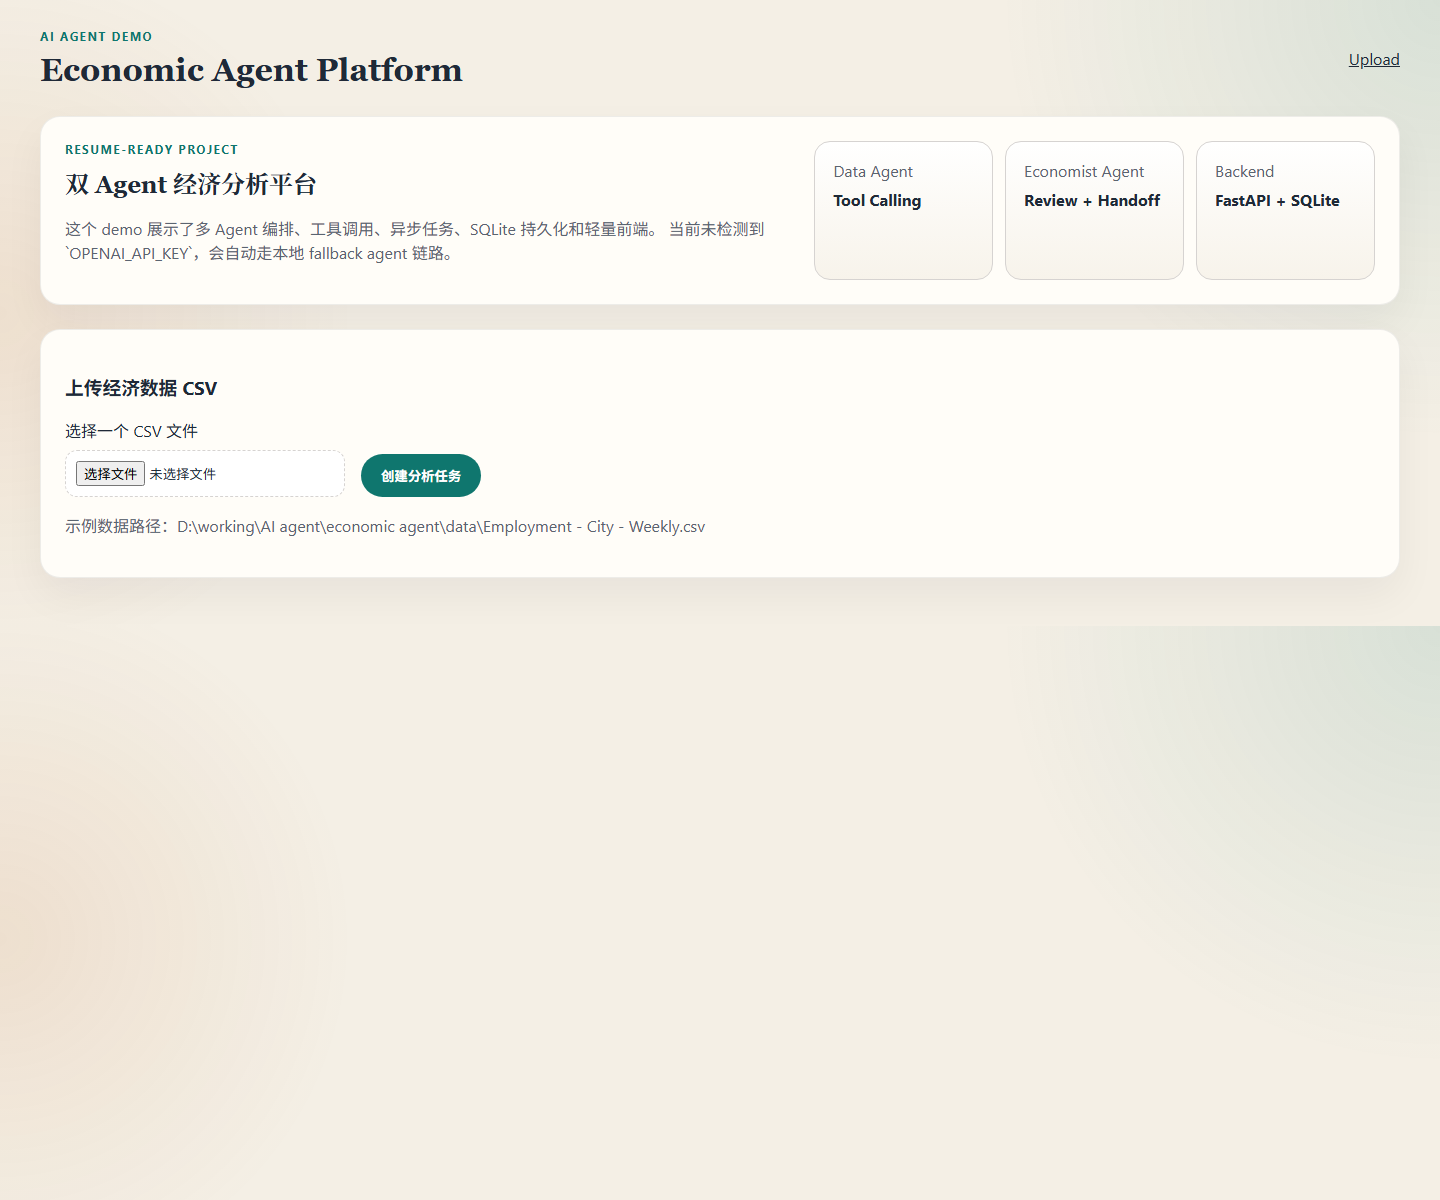
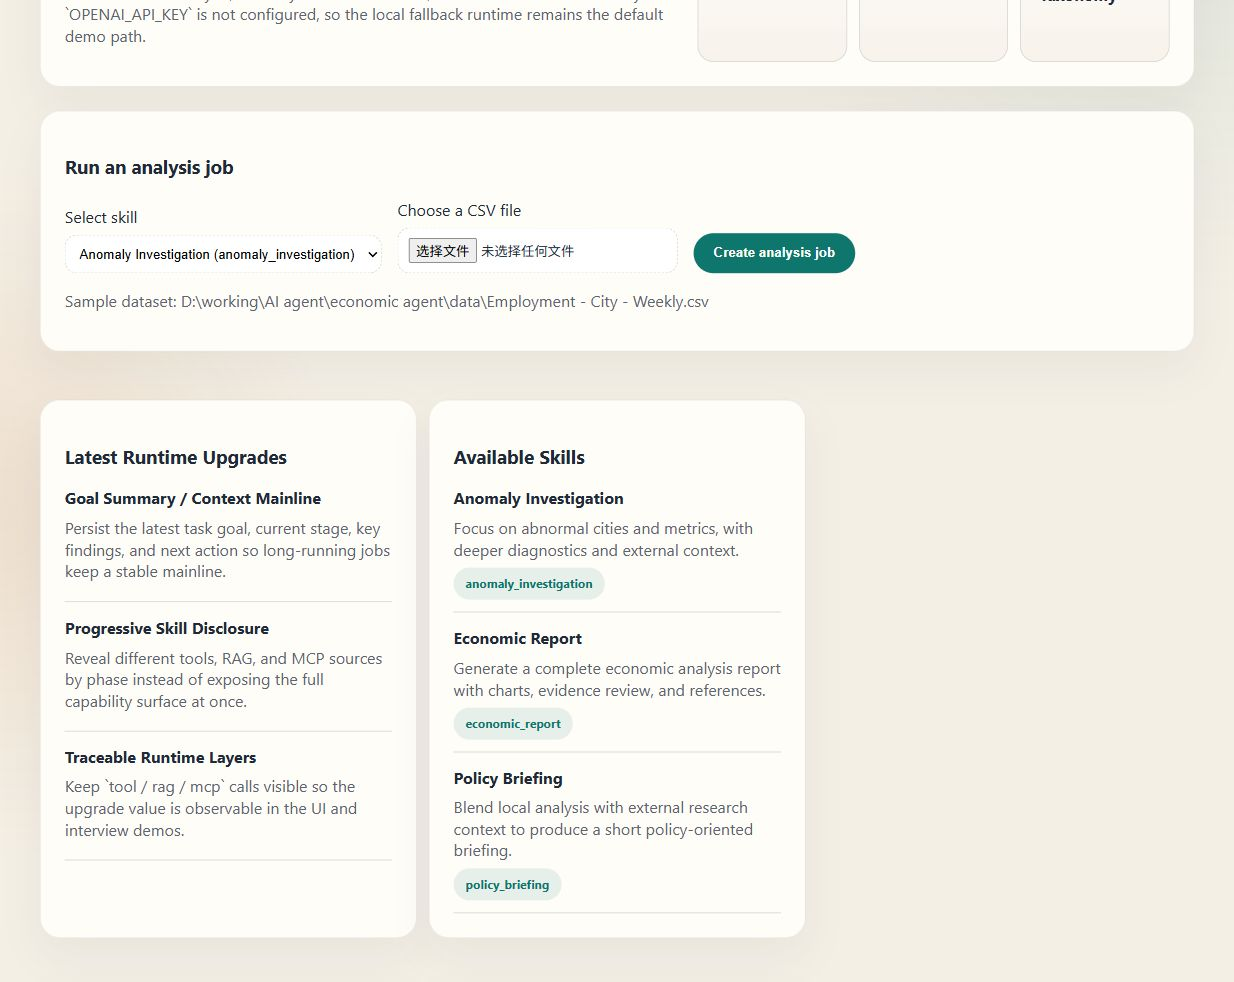
Show upgrade value in demo screenshots

diff --git a/app/templates/partials/job_panel.html b/app/templates/partials/job_panel.html
@@ -38,6 +38,57 @@
   </ul>
 </section>
 
+<section class="trace-card disclosure-card">
+  <h3>Current Skill Disclosure</h3>
+  <p><strong>Stage:</strong> {{ stage_disclosure.stage }}</p>
+  <p><strong>Stage goal:</strong> {{ stage_disclosure.stage_goal }}</p>
+  <p><strong>Why this disclosure:</strong> {{ stage_disclosure.disclosure_rationale or "-" }}</p>
+  <div class="status-row">
+    <span class="chip">output: {{ stage_disclosure.output_type or "-" }}</span>
+    <span class="chip">rag: {{ stage_disclosure.rag_enabled }}</span>
+  </div>
+  <div class="disclosure-grid">
+    <article class="mini-card">
+      <h4>Allowed Tools</h4>
+      <ul class="detail-list compact-list">
+        {% for tool_name in stage_disclosure.allowed_tools %}
+        <li>{{ tool_name }}</li>
+        {% else %}
+        <li>No data tools disclosed in this stage.</li>
+        {% endfor %}
+      </ul>
+    </article>
+    <article class="mini-card">
+      <h4>MCP Sources</h4>
+      <ul class="detail-list compact-list">
+        {% for source_name in stage_disclosure.mcp_sources %}
+        <li>{{ source_name }}</li>
+        {% else %}
+        <li>No external sources disclosed in this stage.</li>
+        {% endfor %}
+      </ul>
+    </article>
+  </div>
+</section>
+
+<section class="trace-card disclosure-card">
+  <h3>Progressive Disclosure Plan</h3>
+  <div class="plan-grid">
+    {% for item in disclosure_plan %}
+    <article class="mini-card">
+      <div class="status-row">
+        <span class="chip">{{ item.stage }}</span>
+        {% if item.stage == stage_disclosure.stage %}<span class="chip">current</span>{% endif %}
+      </div>
+      <p><strong>Goal:</strong> {{ item.stage_goal }}</p>
+      <p><strong>RAG:</strong> {{ item.rag_enabled }}</p>
+      <p><strong>Tools:</strong> {{ item.allowed_tools | join(", ") if item.allowed_tools else "none" }}</p>
+      <p><strong>MCP:</strong> {{ item.mcp_sources | join(", ") if item.mcp_sources else "none" }}</p>
+    </article>
+    {% endfor %}
+  </div>
+</section>
+
 {% if report %}
 <section class="report-layout">
   <article class="report-card markdown-body">

diff --git a/app/static/styles.css b/app/static/styles.css
@@ -101,6 +101,10 @@ a {
   margin-top: 24px;
 }
 
+.secondary-grid {
+  grid-template-columns: repeat(2, 1fr);
+}
+
 .meta-card {
   border: 1px solid var(--line);
   border-radius: 16px;
@@ -253,6 +257,46 @@ button {
   color: var(--muted);
 }
 
+.upgrade-card {
+  background:
+    linear-gradient(180deg, rgba(15, 118, 110, 0.06), rgba(255, 253, 248, 0.96)),
+    var(--panel);
+}
+
+.disclosure-card {
+  border: 1px solid rgba(15, 118, 110, 0.18);
+}
+
+.disclosure-grid {
+  margin-top: 18px;
+  display: grid;
+  grid-template-columns: repeat(2, 1fr);
+  gap: 16px;
+}
+
+.plan-grid {
+  margin-top: 18px;
+  display: grid;
+  grid-template-columns: repeat(2, 1fr);
+  gap: 16px;
+}
+
+.mini-card {
+  border: 1px solid var(--line);
+  border-radius: 16px;
+  padding: 16px;
+  background: linear-gradient(180deg, rgba(255,255,255,0.96), rgba(244,239,229,0.7));
+}
+
+.mini-card h4 {
+  margin-top: 0;
+  margin-bottom: 12px;
+}
+
+.compact-list {
+  gap: 10px;
+}
+
 table {
   width: 100%;
   border-collapse: collapse;
@@ -290,7 +334,10 @@ td {
 
   .hero-card,
   .report-layout,
-  .capability-grid {
+  .capability-grid,
+  .secondary-grid,
+  .disclosure-grid,
+  .plan-grid {
     grid-template-columns: 1fr;
   }
 

diff --git a/app/templates/index.html b/app/templates/index.html
@@ -42,6 +42,24 @@
 </section>
 
 <section class="capability-grid">
+  <article class="trace-card upgrade-card">
+    <h3>Latest Runtime Upgrades</h3>
+    <ul class="detail-list">
+      <li>
+        <strong>Goal Summary / Context Mainline</strong>
+        <p>Persist the latest task goal, current stage, key findings, and next action so long-running jobs keep a stable mainline.</p>
+      </li>
+      <li>
+        <strong>Progressive Skill Disclosure</strong>
+        <p>Reveal different tools, RAG, and MCP sources by phase instead of exposing the full capability surface at once.</p>
+      </li>
+      <li>
+        <strong>Traceable Runtime Layers</strong>
+        <p>Keep `tool / rag / mcp` calls visible so the upgrade value is observable in the UI and interview demos.</p>
+      </li>
+    </ul>
+  </article>
+
   <article class="trace-card">
     <h3>Available Skills</h3>
     <ul class="detail-list">
@@ -54,7 +72,9 @@
       {% endfor %}
     </ul>
   </article>
+</section>
 
+<section class="capability-grid secondary-grid">
   <article class="trace-card">
     <h3>MCP Sources</h3>
     <ul class="detail-list">

diff --git a/app/main.py b/app/main.py
@@ -14,7 +14,7 @@ from app.schemas import CreateJobResponse, JobStatusResponse, KnowledgeSearchRes
 from app.services.knowledge_base import KnowledgeBase
 from app.services.mcp import build_default_mcp_registry
 from app.services.rag import RagService
-from app.skills import list_skills
+from app.skills import DEFAULT_STAGE_ORDER, get_skill, get_stage_disclosure, list_skills
 from app.storage import Storage
 
 
@@ -98,6 +98,14 @@ def create_app(settings: Settings | None = None) -> FastAPI:
             chart_json = json.dumps([chart.model_dump() for chart in report.chart_payloads], ensure_ascii=False)
         elif job.status == "failed":
             sources = runner.get_sources_response(job_id).sources
+        disclosure_stage = goal_summary.summary.current_stage if goal_summary else job.current_stage
+        stage_disclosure = get_stage_disclosure(job.skill_id, disclosure_stage)
+        skill_definition = get_skill(job.skill_id)
+        disclosure_plan = [
+            skill_definition.stage_disclosures[stage]
+            for stage in DEFAULT_STAGE_ORDER
+            if stage in skill_definition.stage_disclosures
+        ]
 
         return templates.TemplateResponse(
             request,
@@ -109,6 +117,8 @@ def create_app(settings: Settings | None = None) -> FastAPI:
                 "report_html": report_html,
                 "trace": trace,
                 "goal_summary": goal_summary,
+                "stage_disclosure": stage_disclosure,
+                "disclosure_plan": disclosure_plan,
                 "chart_json": chart_json,
                 "sources": sources,
             },
